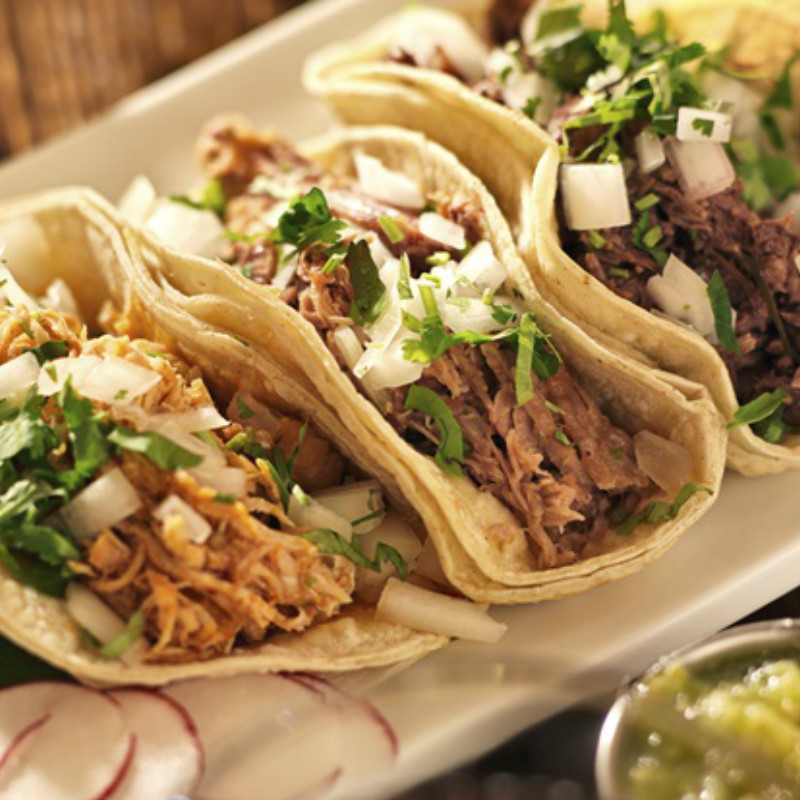
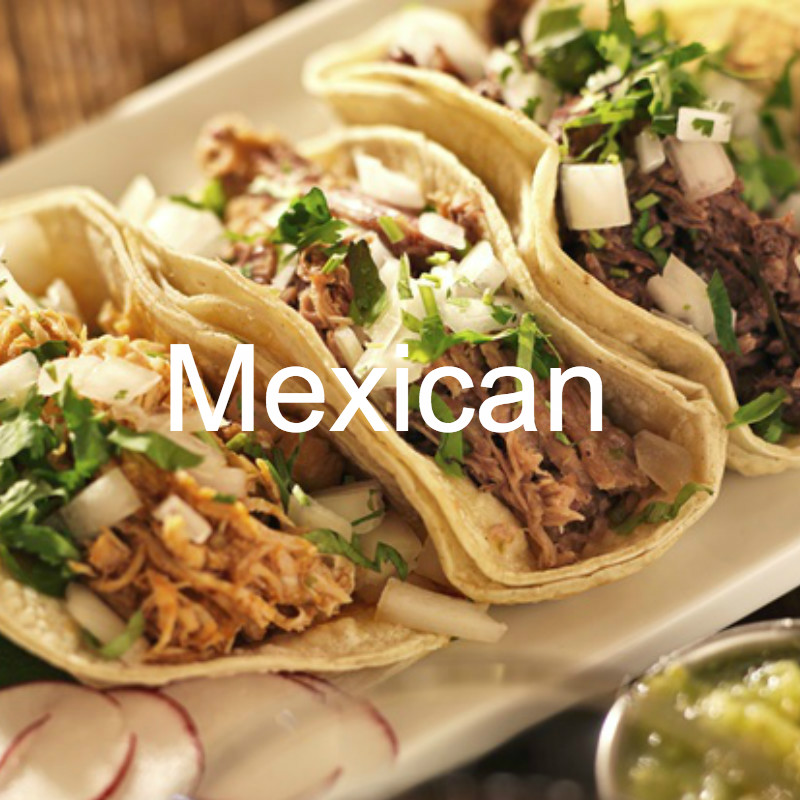
added menu

Changed region(s): [[0.1875, 0.4062, 0.7812, 0.5625]]

diff --git a/sinatra-skeleton/public/stylesheets/stylesheet.css b/sinatra-skeleton/public/stylesheets/stylesheet.css
@@ -35,3 +35,19 @@ body {
   height: 100px;
   font-size: 35px;
 }
+
+.col-md-3 {
+  margin-top: 20px;
+}
+
+.img-thumbnail {
+  height: 220px;
+  margin-left: auto;
+  margin-right: auto;
+  opacity: 0.5;
+  filter: alpha(opacity=40); /* For IE8 and earlier */
+}
+
+.img-thumbnail:hover {
+  opacity: 1.0;
+}
